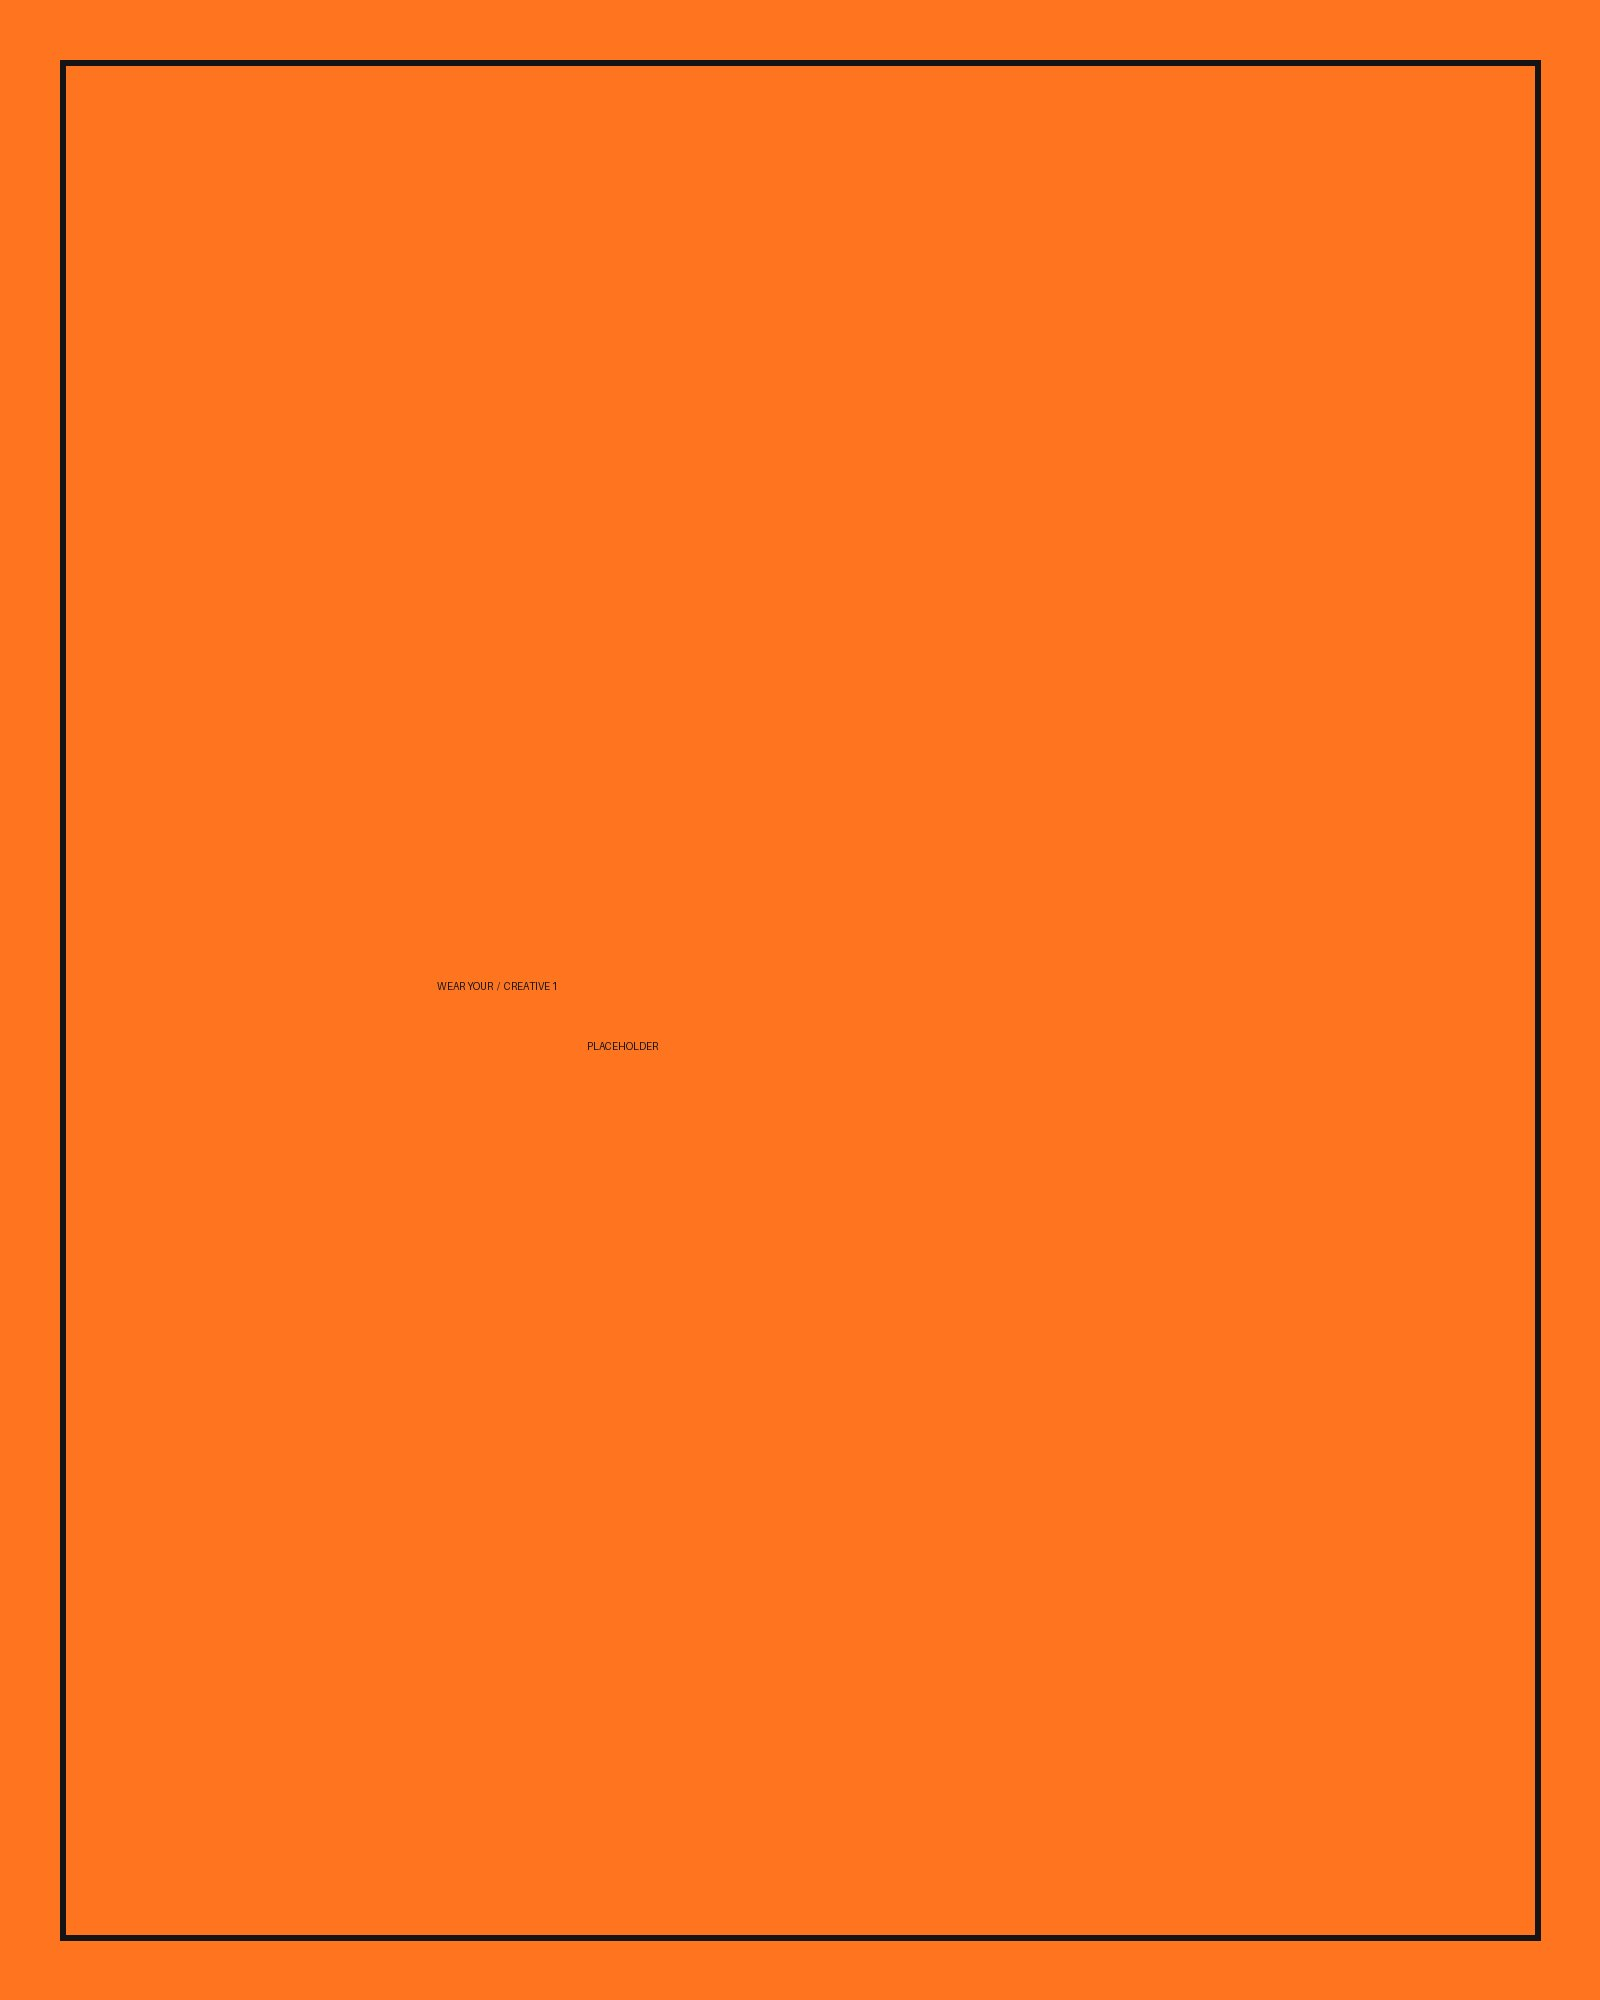
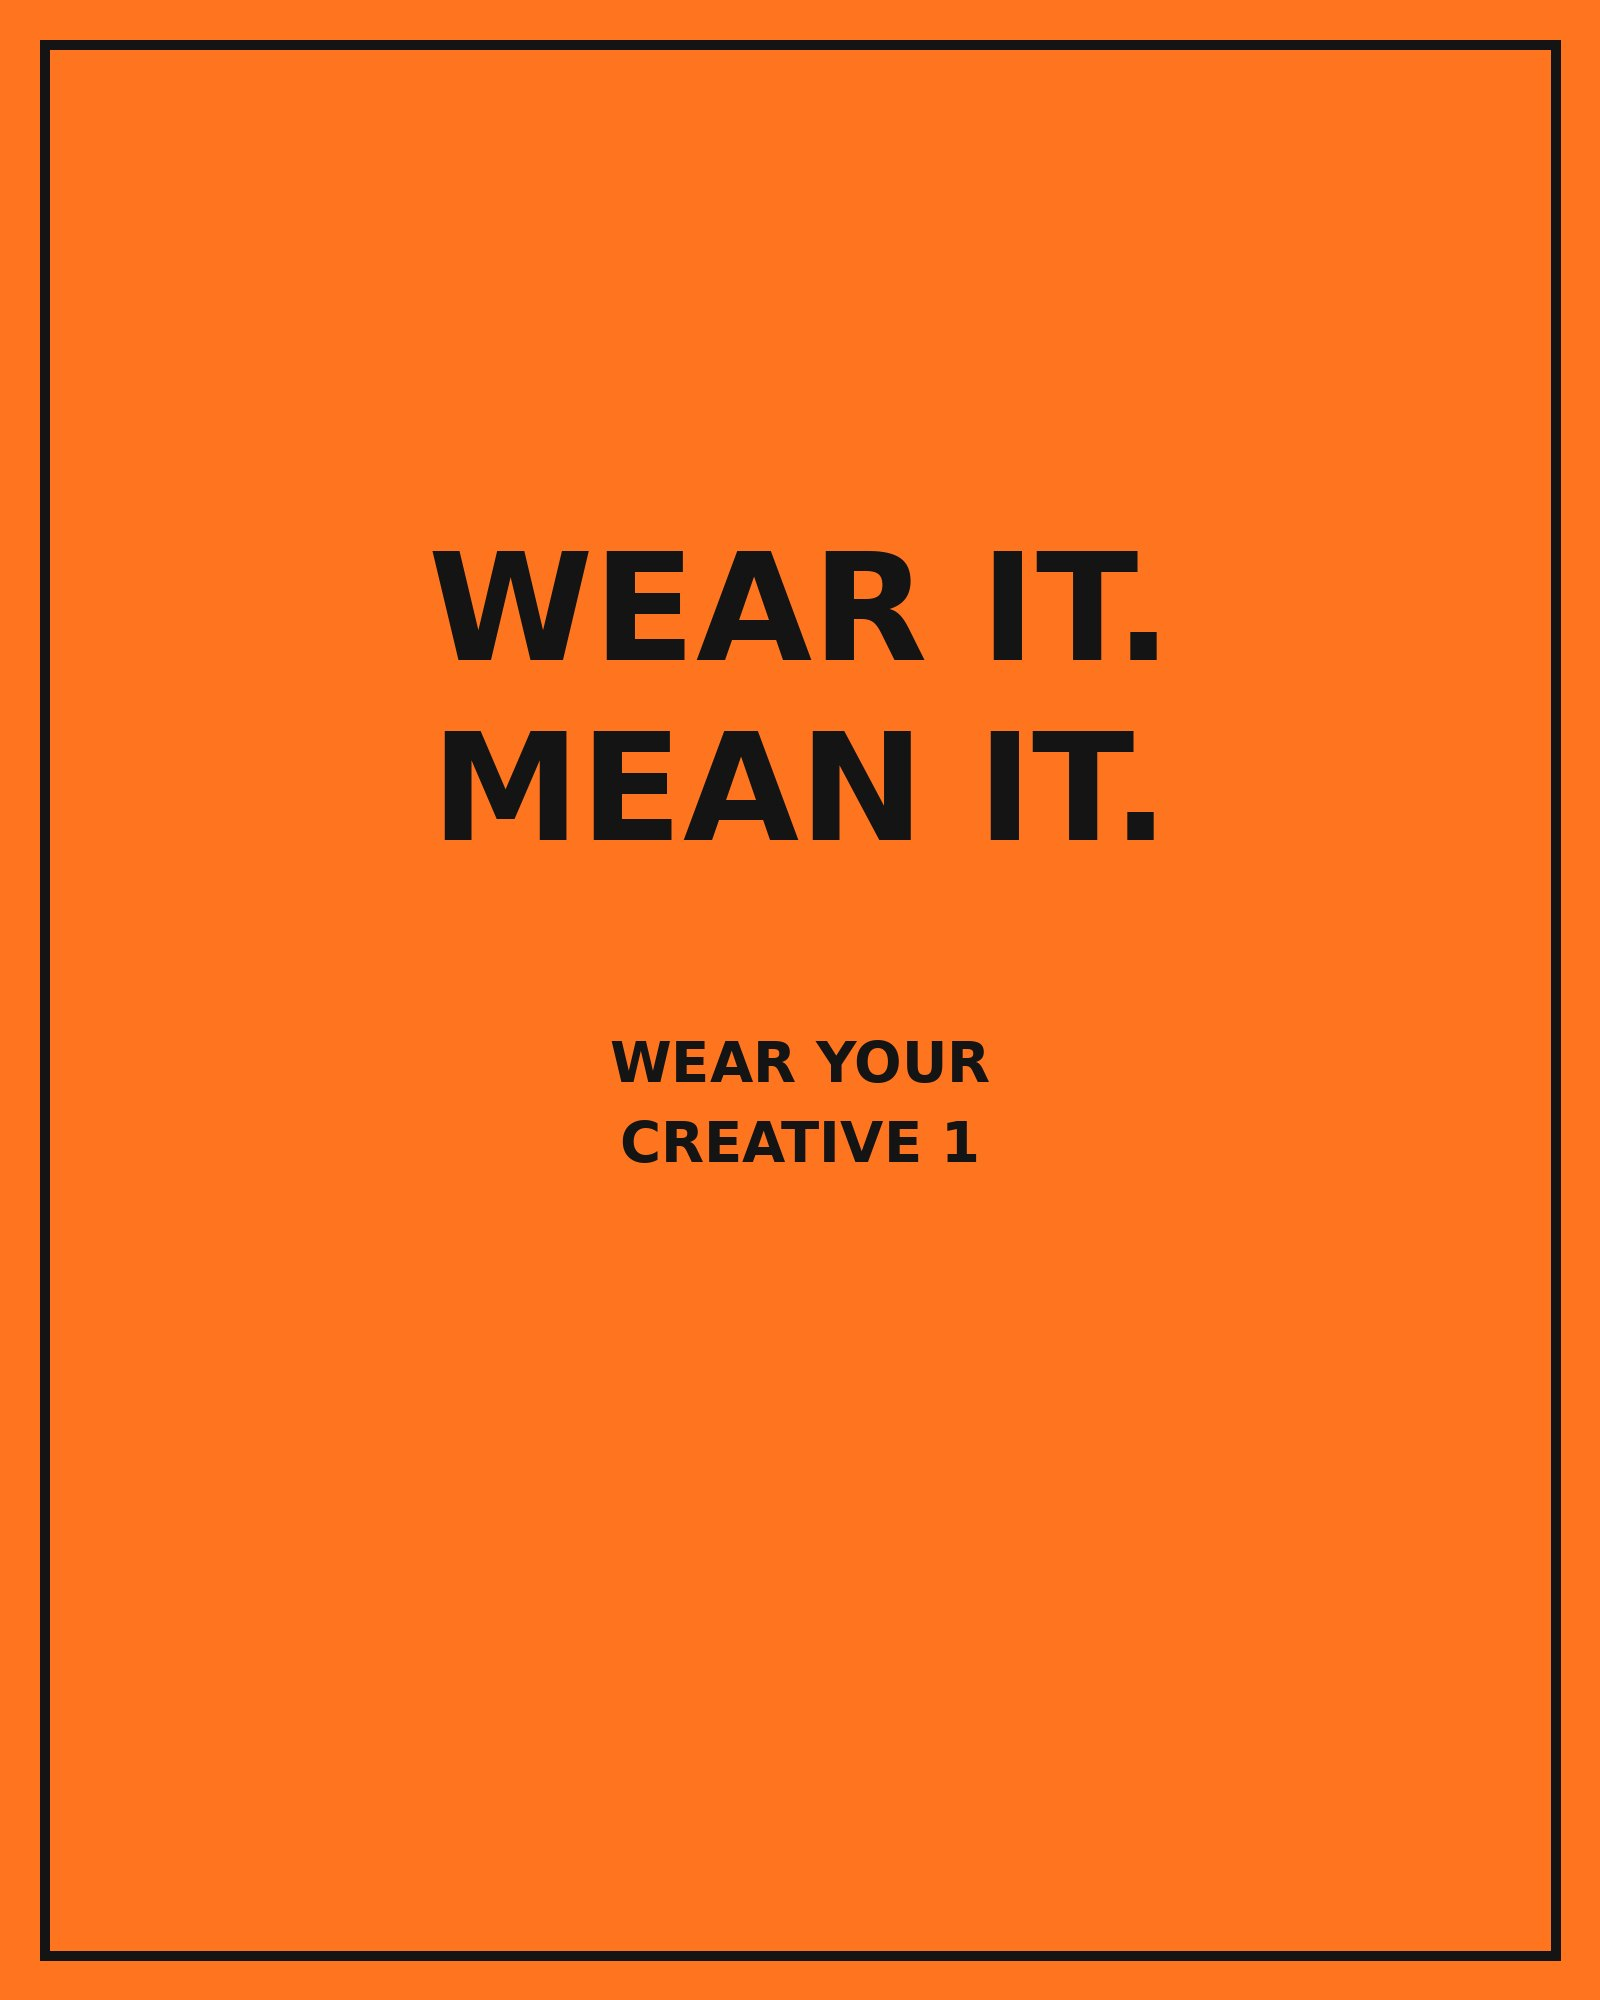
Draft: the band stays full width, the art does not
Two 4:5 panels stretched edge to edge came out 969px tall, a whole
screen, and cropping them to fit cut the headline off the top and the
logo off the bottom. Now the height is set first and the art is sized
to it, whole and uncropped, centred on a band that still runs the full
width. 540px instead of 969.

The stand-ins were also drawing their label at default size on a
1600px canvas, so they read as empty blocks. Redrawn at a size that
shows what is in the frame.

Claude-Session: https://claude.ai/code/session_019NiYrX1yRGLZd9B9kgchvU

Changed region(s): [[0.0, 0.0, 1.0, 0.992], [0.25, 0.248, 0.7188, 0.434], [0.375, 0.496, 0.625, 0.589]]

diff --git a/site.css b/site.css
@@ -134,12 +134,19 @@
    width would run past a metre tall on a wide screen, so the height is
    capped and the art is cropped to it. */
 .adfull { border-block: var(--border-w); background: var(--cream); }
-/* No crop. These creatives carry the headline at the top edge and the logo
-   at the bottom, so capping the height and cropping to it cut both off. The
-   panels keep their 4:5 and the section is as tall as that makes it, which
-   on a wide screen is most of a screen. That is what a full page is. */
-.adfull-row { display: grid; grid-template-columns: 1fr 1fr; }
-.adfull-row img { width: 100%; height: auto; aspect-ratio: 4 / 5; object-fit: cover; display: block; }
+/* The band runs full width; the art does not. Two 4:5 panels stretched edge
+   to edge came out a whole screen tall, and cropping them to fit cut the
+   headline off the top and the logo off the bottom, which is where these
+   creatives put both. So the height is set first and the art is sized to it,
+   whole and uncropped, centred on the band. */
+.adfull-row {
+  display: flex; justify-content: center; align-items: center;
+  gap: clamp(14px, 2.5vw, 30px); padding: 0 var(--gutter) clamp(18px, 2.5vw, 26px);
+}
+.adfull-row img {
+  height: clamp(260px, 32vw, 420px); width: auto; max-width: 46%;
+  object-fit: contain; display: block;
+}
 .adfull-tag, .adfull-why {
   font-family: var(--font-mono); font-size: .66rem; font-weight: 700;
   letter-spacing: .2em; text-transform: uppercase; opacity: .5;
@@ -149,7 +156,7 @@
 /* One panel on a phone. Two stacked 4:5 blocks is a page and a half of ad
    before anybody reaches the founder. */
 @media (max-width: 760px) {
-  .adfull-row { grid-template-columns: 1fr; }
+  .adfull-row img { height: auto; width: 100%; max-width: 320px; }
   /* Scoped past .adfull-row img, which is the more specific of the two and
      would otherwise keep this panel on screen. */
   .adfull-row .adfull-second { display: none; }
